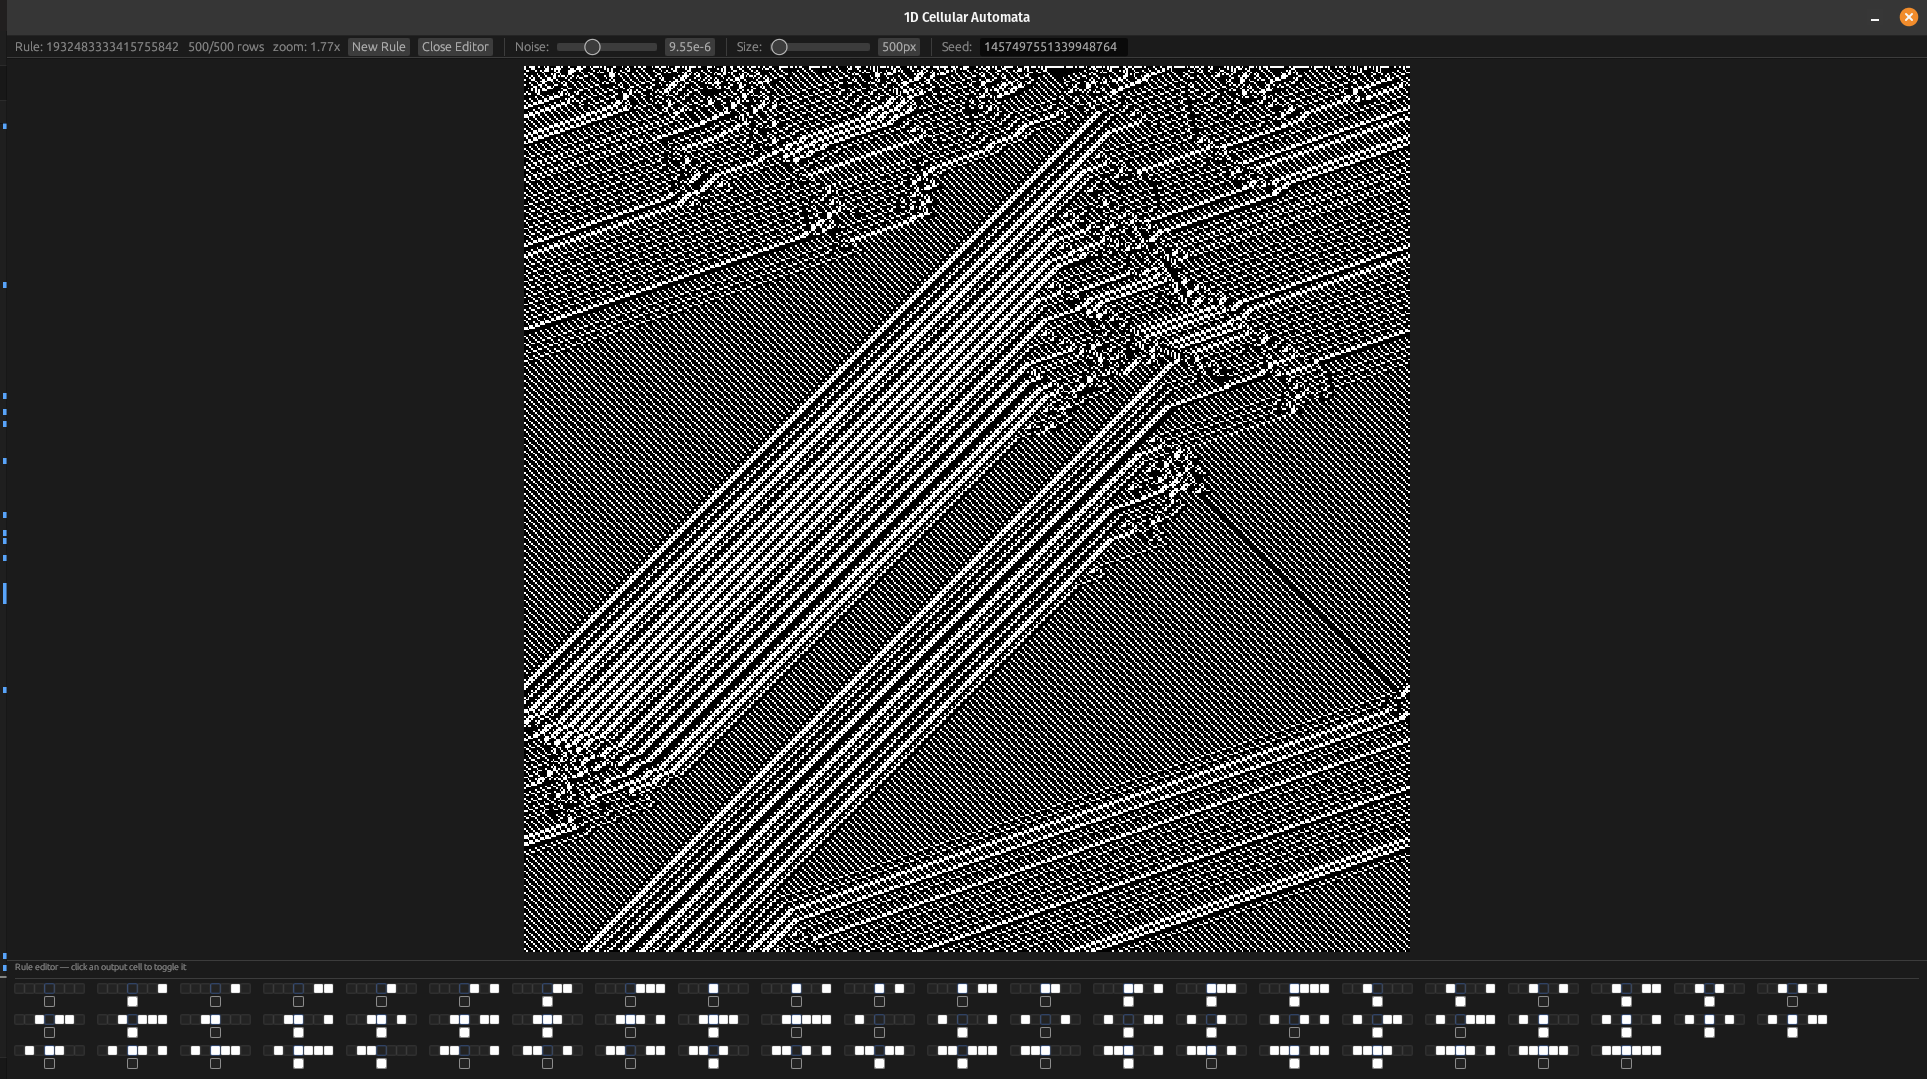
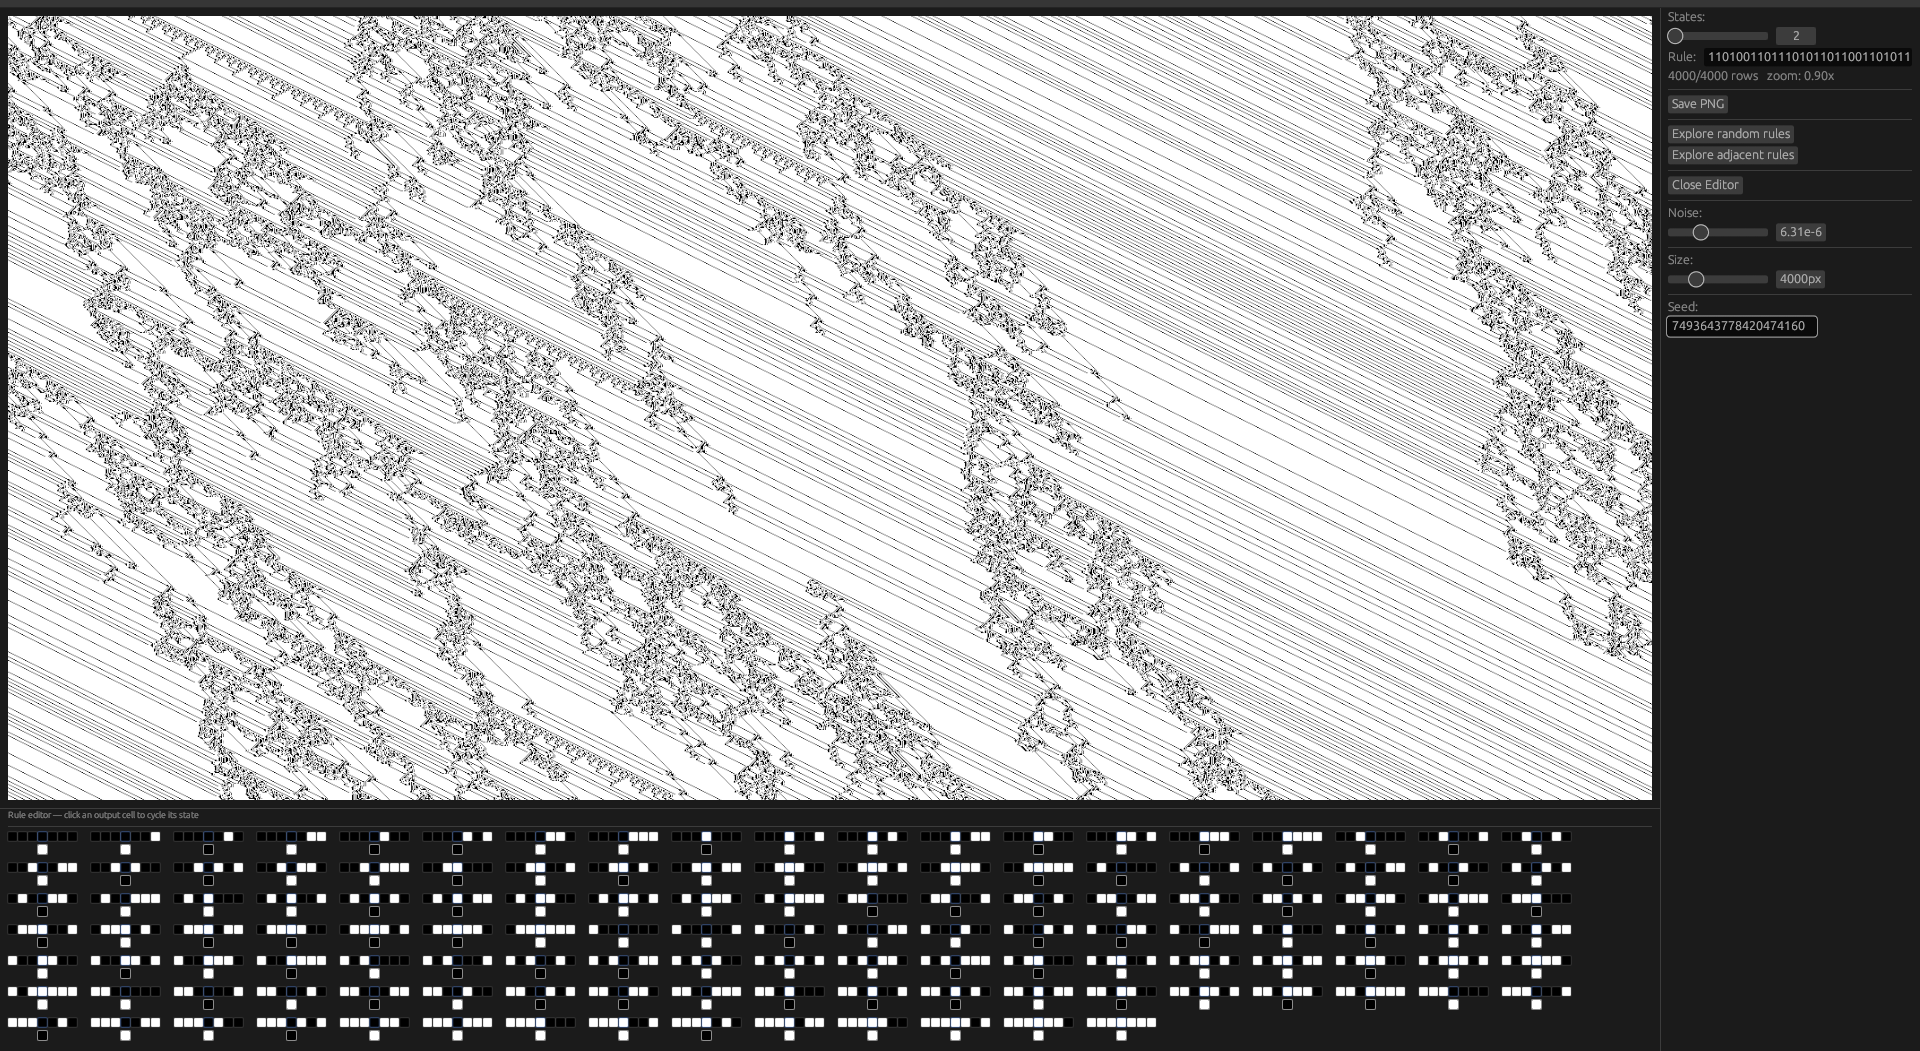
Add another screenshot

diff --git a/README.md b/README.md
@@ -1,6 +1,8 @@
 # Cellscape
 ![Screenshot](docs/assets/screenshot_1.png)
 
+![Random View Screenshot](docs/assets/random_view.png)
+
 Cellscape is an art project for finding and exploring visually striking 1D cellular automata.
 
 ## How to run